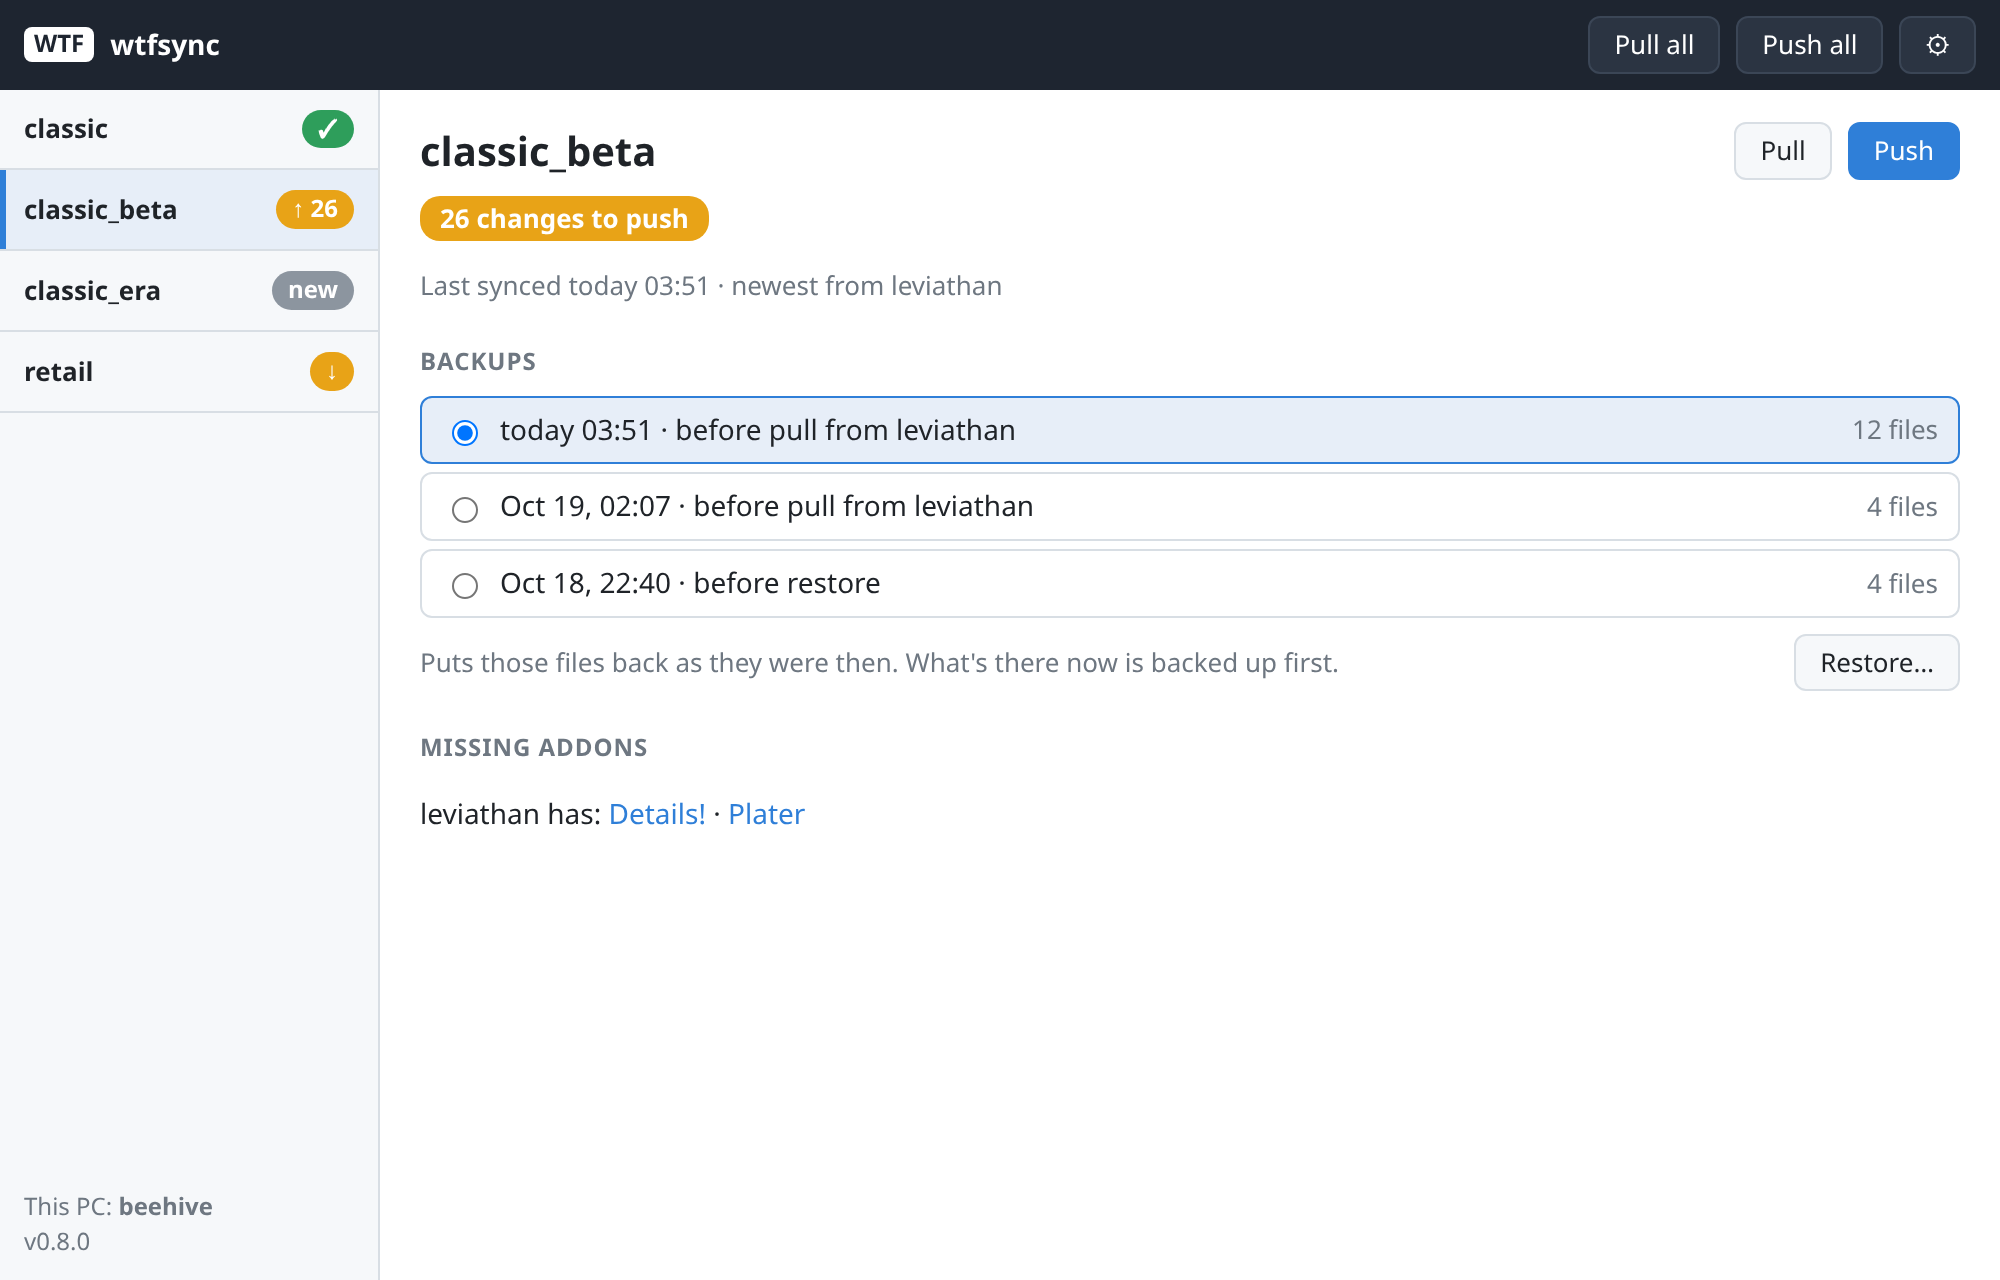
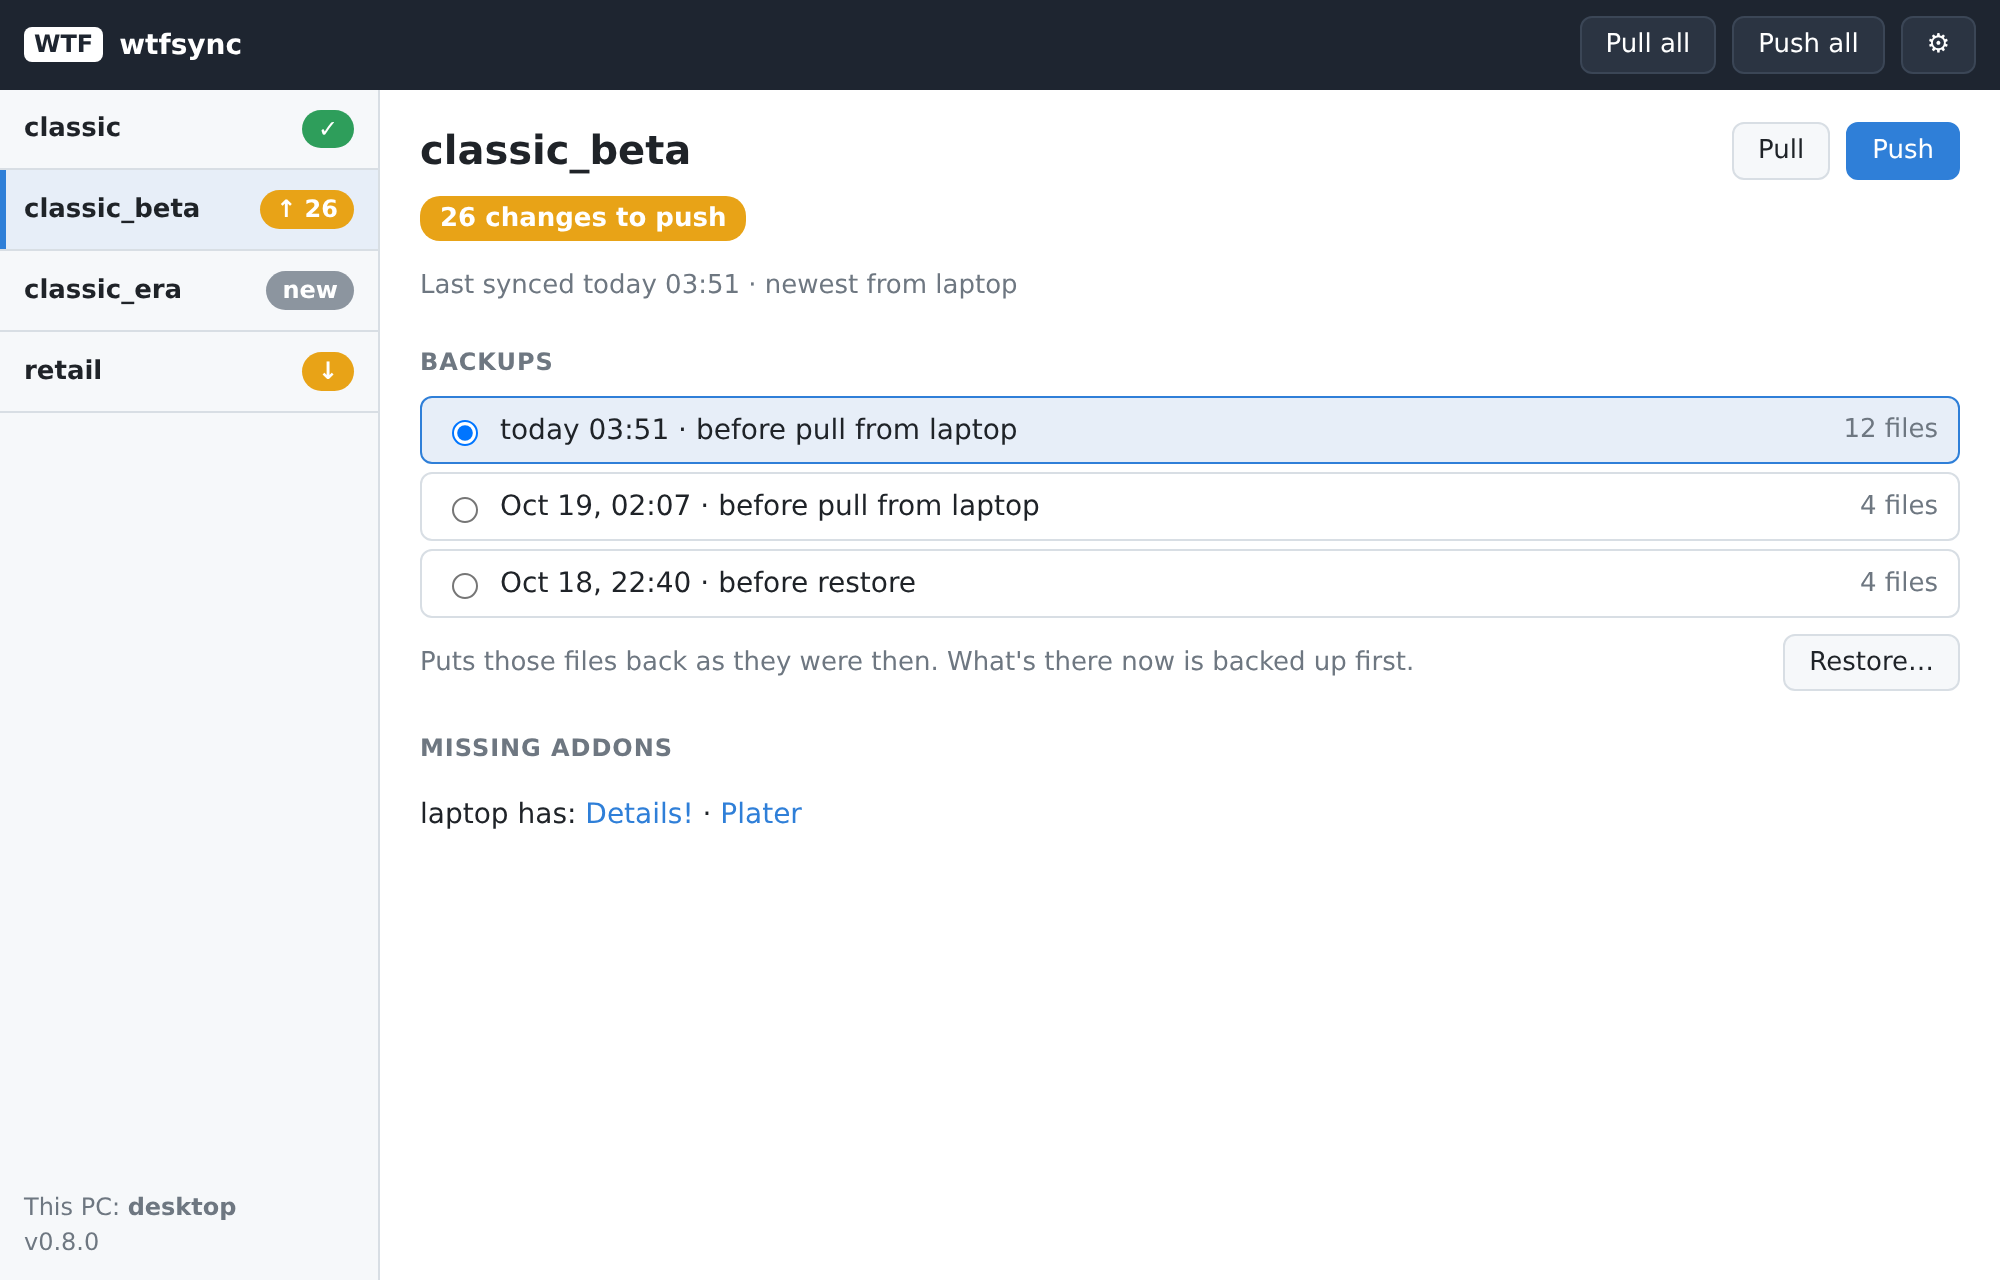
docs: use generic PC names in the README and screenshots

diff --git a/internal/ui/web/demo.js b/internal/ui/web/demo.js
@@ -2,37 +2,37 @@
 const p = new URLSearchParams(location.search);
 
 const main = {
-  SetUp: true, Busy: "", PC: "beehive", Version: "v0.8.0", Update: "", Appearance: p.get("theme") || "system",
+  SetUp: true, Busy: "", PC: "desktop", Version: "v0.8.0", Update: "", Appearance: p.get("theme") || "system",
   Flavors: [
     { Name: "classic", Badge: { Kind: "ok", Short: "✓", Words: "In sync" },
-      Line: "Last synced Oct 19, 02:07 · newest from leviathan",
-      Backups: [{ ID: "b3", When: "Oct 19, 02:07", Reason: "before pull from leviathan", Files: 4 }], Missing: [] },
+      Line: "Last synced Oct 19, 02:07 · newest from laptop",
+      Backups: [{ ID: "b3", When: "Oct 19, 02:07", Reason: "before pull from laptop", Files: 4 }], Missing: [] },
     { Name: "classic_beta", Badge: { Kind: "changes", Short: "↑ 26", Words: "26 changes to push" },
-      Line: "Last synced today 03:51 · newest from leviathan",
+      Line: "Last synced today 03:51 · newest from laptop",
       Backups: [
-        { ID: "b2", When: "today 03:51", Reason: "before pull from leviathan", Files: 12 },
-        { ID: "b1", When: "Oct 19, 02:07", Reason: "before pull from leviathan", Files: 4 },
+        { ID: "b2", When: "today 03:51", Reason: "before pull from laptop", Files: 12 },
+        { ID: "b1", When: "Oct 19, 02:07", Reason: "before pull from laptop", Files: 4 },
         { ID: "b0", When: "Oct 18, 22:40", Reason: "before restore", Files: 4 },
       ],
-      Missing: [{ PC: "leviathan", Addons: [
+      Missing: [{ PC: "laptop", Addons: [
         { Name: "Details!", URL: "https://www.curseforge.com/projects/61284", Folders: "Details" },
         { Name: "Plater", URL: "https://www.curseforge.com/projects/100547", Folders: "Plater" },
       ] }] },
     { Name: "classic_era", Badge: { Kind: "new", Short: "new", Words: "Not synced yet" }, Line: "Never synced", Backups: [], Missing: [] },
-    { Name: "retail", Badge: { Kind: "newer", Short: "↓", Words: "leviathan has newer settings" },
-      Line: "Last synced Oct 18, 21:10 · leviathan pushed today 08:12", Backups: [], Missing: [] },
+    { Name: "retail", Badge: { Kind: "newer", Short: "↓", Words: "laptop has newer settings" },
+      Line: "Last synced Oct 18, 21:10 · laptop pushed today 08:12", Backups: [], Missing: [] },
   ],
 };
 
 const answers = {
   Main: () => main,
-  Settings: () => ({ Name: "beehive", WoWDir: "C:\\Program Files (x86)\\World of Warcraft", SyncFolder: "G:\\My Drive\\wtfsync",
+  Settings: () => ({ Name: "desktop", WoWDir: "C:\\Program Files (x86)\\World of Warcraft", SyncFolder: "G:\\My Drive\\wtfsync",
     AllFlavors: false, StartAtLogin: true,
     Flavors: [{ Name: "classic", On: true }, { Name: "classic_beta", On: true }, { Name: "classic_era", On: false }, { Name: "retail", On: true }] }),
   Defaults: () => ({ Installs: ["C:\\Program Files (x86)\\World of Warcraft"], Clouds: ["G:\\My Drive\\wtfsync"],
-    WoWDir: "C:\\Program Files (x86)\\World of Warcraft", Sync: "G:\\My Drive\\wtfsync", Name: "beehive", Rerun: false }),
-  CloudFolder: () => ({ HasData: true, PCs: ["leviathan"] }),
-  Conflicts: () => ({ ID: 1, Flavor: "classic", Other: "leviathan", FirstLink: false, Files: [
+    WoWDir: "C:\\Program Files (x86)\\World of Warcraft", Sync: "G:\\My Drive\\wtfsync", Name: "desktop", Rerun: false }),
+  CloudFolder: () => ({ HasData: true, PCs: ["laptop"] }),
+  Conflicts: () => ({ ID: 1, Flavor: "classic", Other: "laptop", FirstLink: false, Files: [
     "Account/WOWPLAYER/SavedVariables/ElvUI.lua",
     "Account/WOWPLAYER/SavedVariables/Details.lua",
     "Account/WOWPLAYER/Area 52/Thrall/SavedVariables/WeakAuras.lua",
@@ -40,7 +40,7 @@ const answers = {
   RestorePreview: () => ["Account/WOWPLAYER/SavedVariables/ElvUI.lua", "Account/WOWPLAYER/SavedVariables/Details.lua"],
   Restore: () => "b9",
   SaveSettings: () => ["Settings saved; sync history kept."],
-  Setup: () => ["classic: got leviathan's settings (12 file(s))"],
+  Setup: () => ["classic: got laptop's settings (12 file(s))"],
 };
 
 export async function call(method) {

diff --git a/README.md b/README.md
@@ -12,7 +12,7 @@ It doesn't install addons, but it tells you what you're missing. Each push recor
 installed addons, and `pull`, `push` and `status` on the other PC list any it doesn't have, with
 a download link when the addon's `.toc` names its CurseForge, Wago or WoWInterface project:
 
-    NJ has addons not installed here:
+    laptop has addons not installed here:
       Plater  https://www.curseforge.com/projects/100547
       ElvUI (ElvUI, ElvUI_Options)  https://addons.wago.io/addons/…
 
@@ -47,7 +47,7 @@ Add `--dry-run` to any command to see what it would do without changing anything
 
 ## Download
 
-Run `wtfsync-setup.exe` from the latest [release](https://github.com/rhwendt/wtfsync/releases/latest).
+Run `wtfsync-setup.exe` from the latest [release](../../releases/latest).
 It installs for your Windows user only (no admin prompt) into `%LOCALAPPDATA%\Programs\wtfsync`,
 adds a Start menu entry, and can start wtfsync with Windows and add the `wtfsync` command to PATH.
 It isn't code-signed yet, so Windows SmartScreen asks once: **More info → Run anyway**. wtfsync's
@@ -65,7 +65,7 @@ footer) the major (the minor while still 0.x). Merges with only `docs:`, `chore:
 `refactor:` commits don't release.
 
 Each release's notes are the changelog: its features, fixes and breaking changes, grouped from the
-commit messages, with the PR each came from. See [all releases](https://github.com/rhwendt/wtfsync/releases).
+commit messages, with the PR each came from. See [all releases](../../releases).
 
 ## Tray app
 
@@ -208,7 +208,7 @@ builds `dist/wtfsync.exe`, `dist/wtfsync-tray.exe`, `dist/wtfsync-setup.exe` and
 
 1. `wtfsync init --dry-run`: the flavors and file list look right.
 2. `push` / `pull` with `--wow-dir` pointed at a *copy* of the install.
-3. NJ ↔ NY through Google Drive for Desktop (including streaming/placeholder mode).
+3. Two PCs syncing through Google Drive for Desktop (including streaming/placeholder mode).
 4. Change the same addon on both PCs without syncing: the second push asks.
 5. Install `wtfsync-setup.exe`: Start menu entry, tray icon, and the window opening on the setup wizard on a PC that isn't set up.
 6. Push on one PC → a notification on the other within a minute → **Pull** from it.
